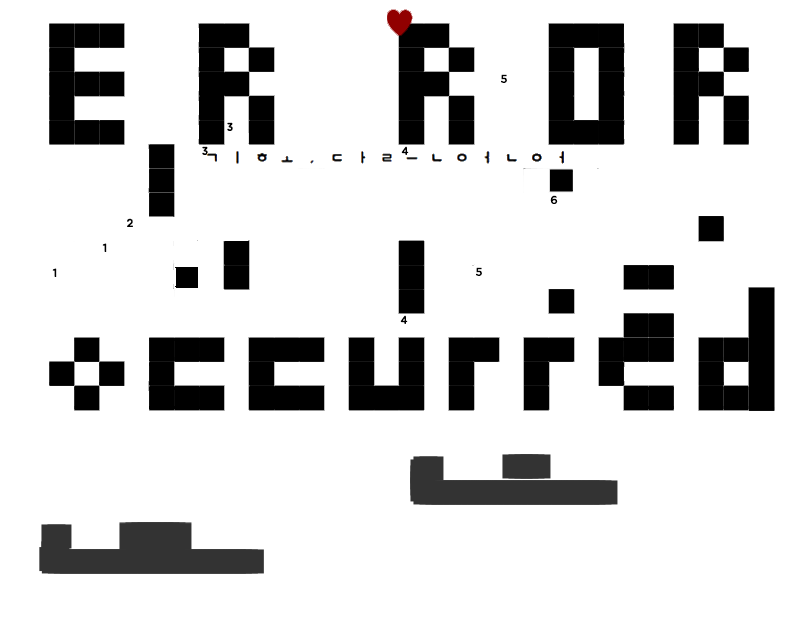
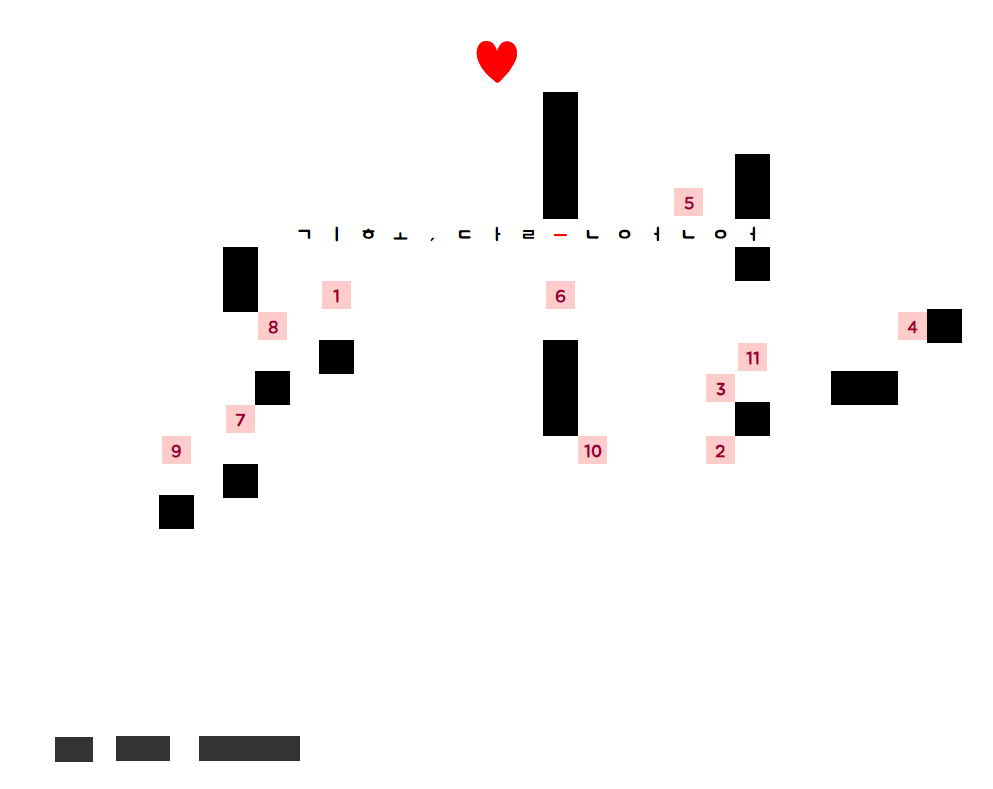
Add files via upload

diff --git a/A16/index.html b/A16/index.html
@@ -16,7 +16,6 @@
   
 <div id="box" style="width:800px;">
 <div id="crossword" draggable="true"></div>
-<img src="./문제.png" id="문제">
 <img src="./문제2.png" id="문제2">
 <div id="공백" style="background-color:white;"></div>
 <div id="content"></div>
@@ -34,22 +33,17 @@
 
 
 <style>
-#문제{position: absolute;
-opacity: .8; 
-width:800px;
-height:638px;
-z-index:10;
-}
+
 #문제2{position: absolute;
 opacity: 1; 
 width:800px;
-height:638px;
+height:636px;
 z-index:8;
 }
 #공백{position: absolute;
 opacity: 1; 
 width:800px;
-height:430px;
+height:636px;
 z-index:2;
 }
 #crossword{position: absolute;

diff --git a/A16/script.js b/A16/script.js
@@ -40,7 +40,7 @@ function uploadFiles(e) {
       "background-size": "100% 100%",
       "z-index": "5",
       "width": "800px",
-      "height": "638px"
+      "height": "636px"
     })
       .draggable();
     $('#문제').css({ "pointer-events": "none", "user-select": "none", "z-index": "+=10" });
